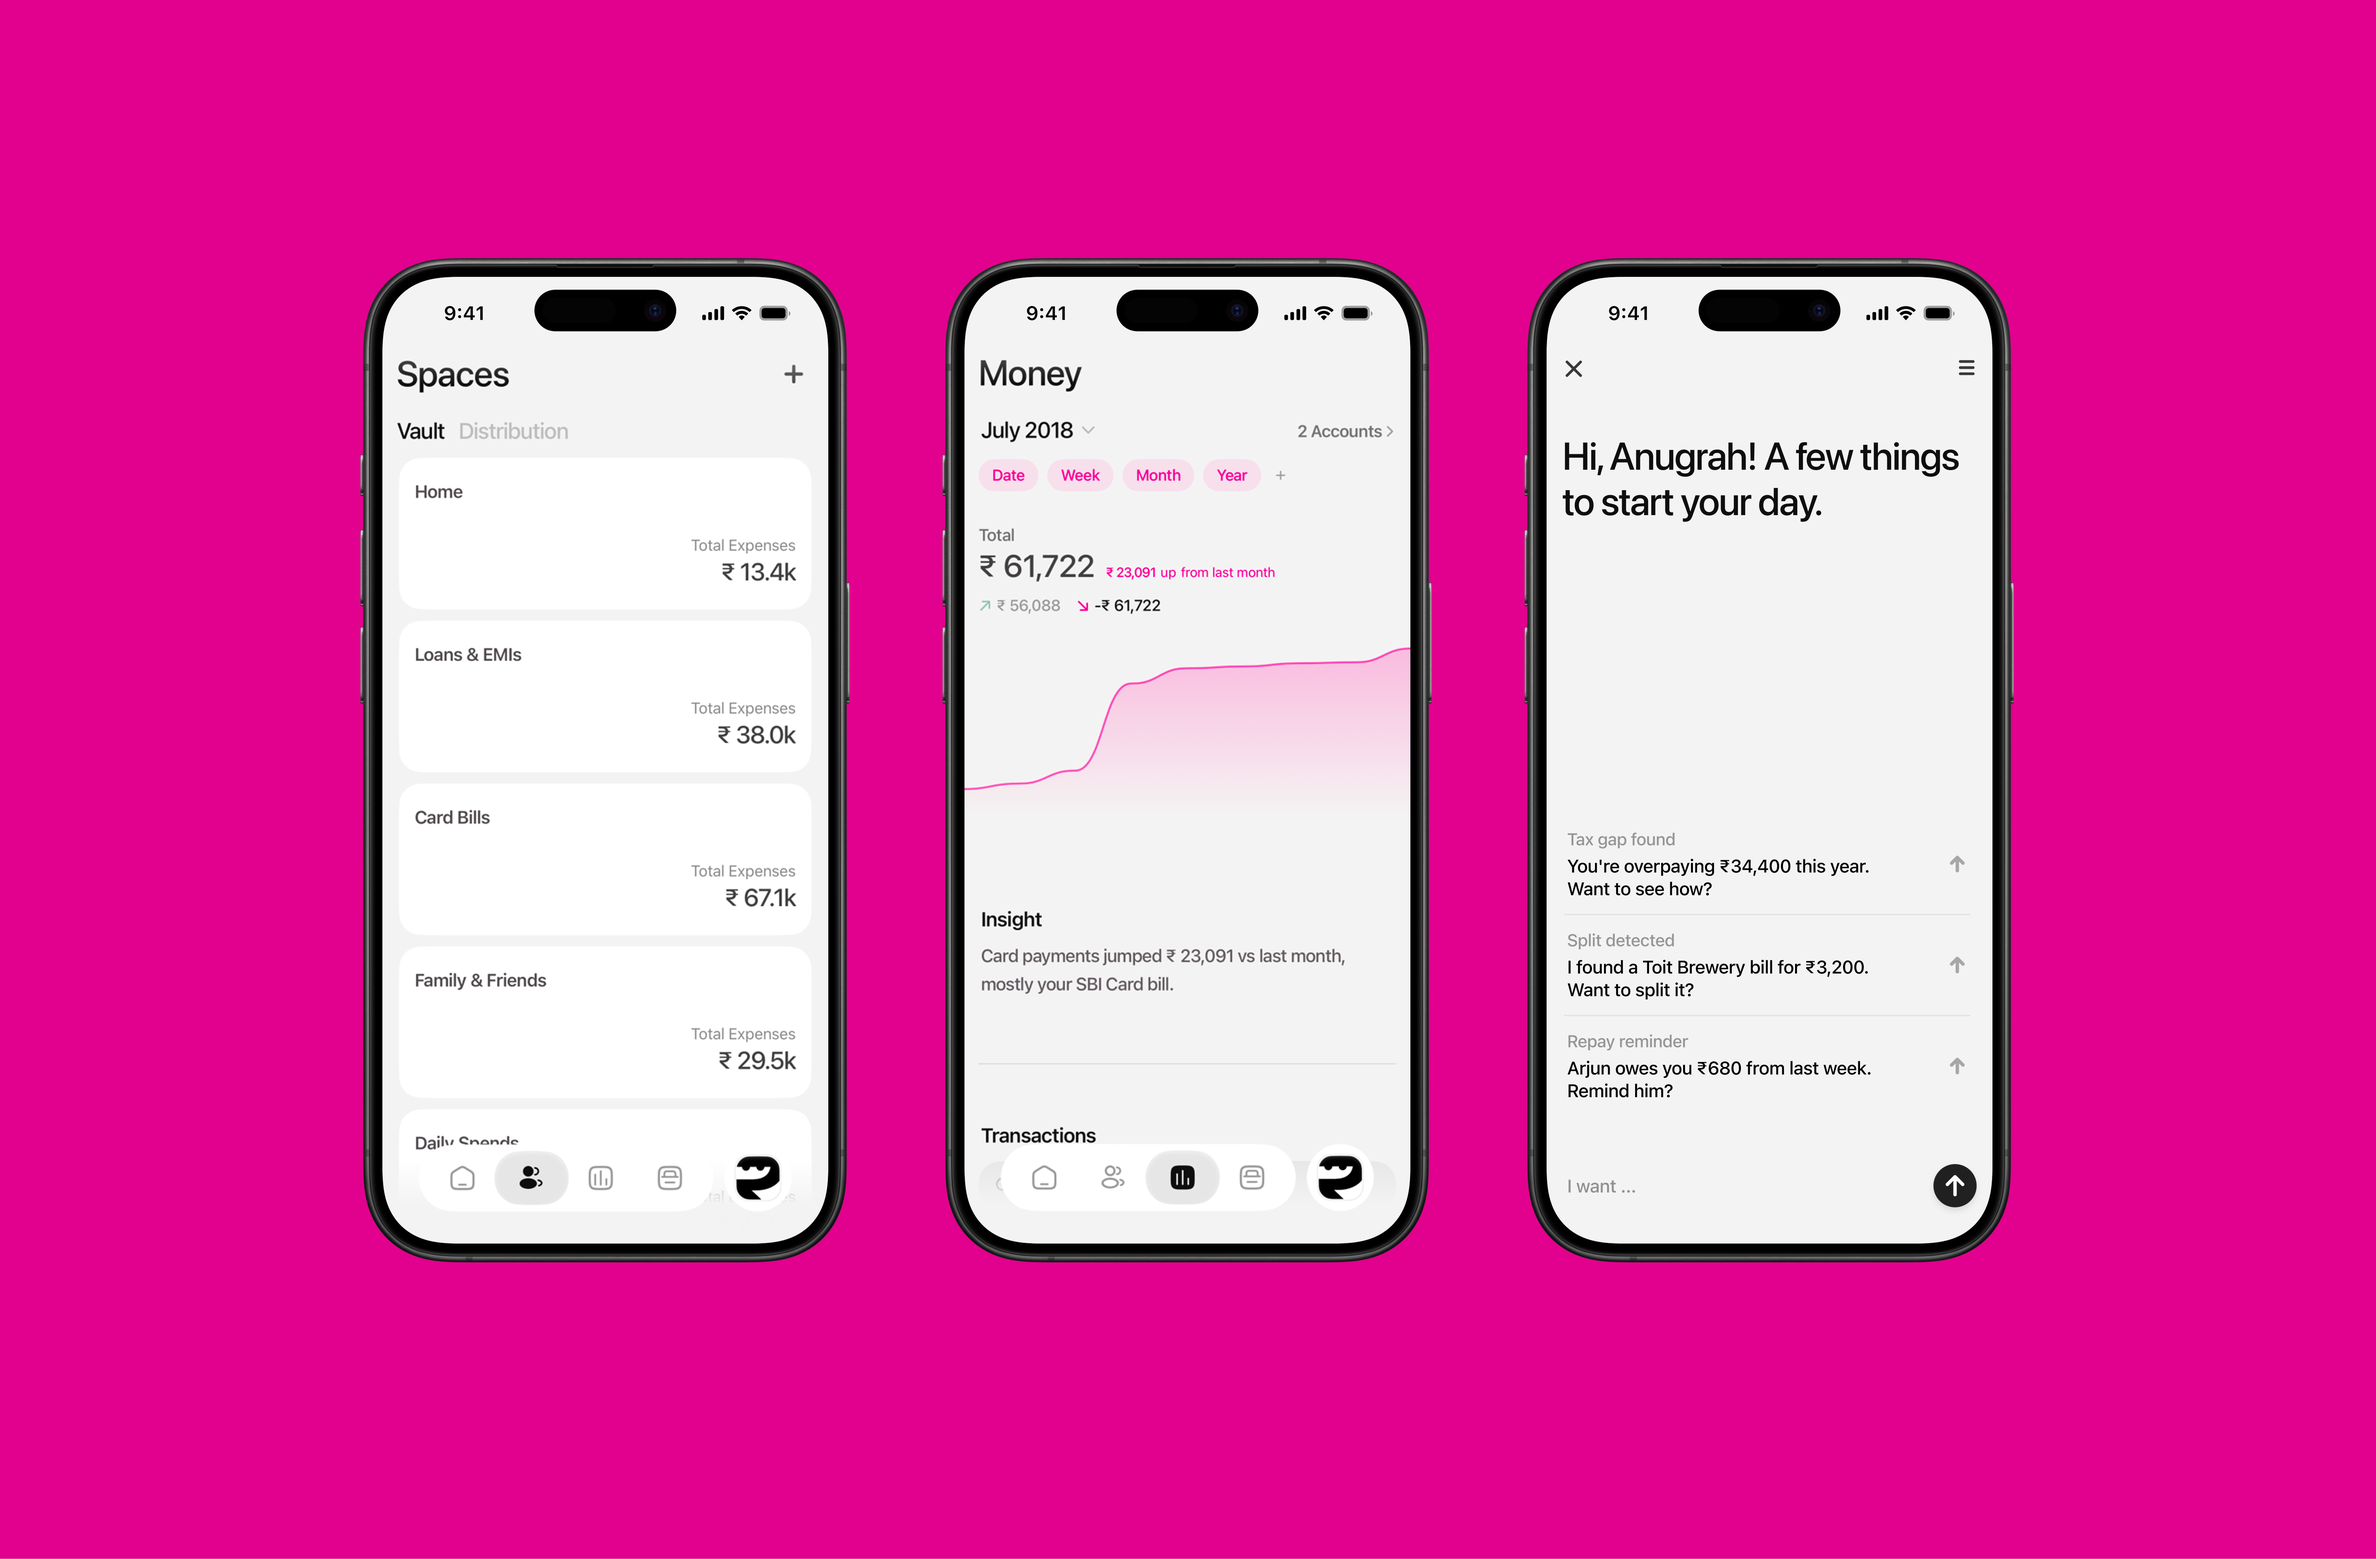
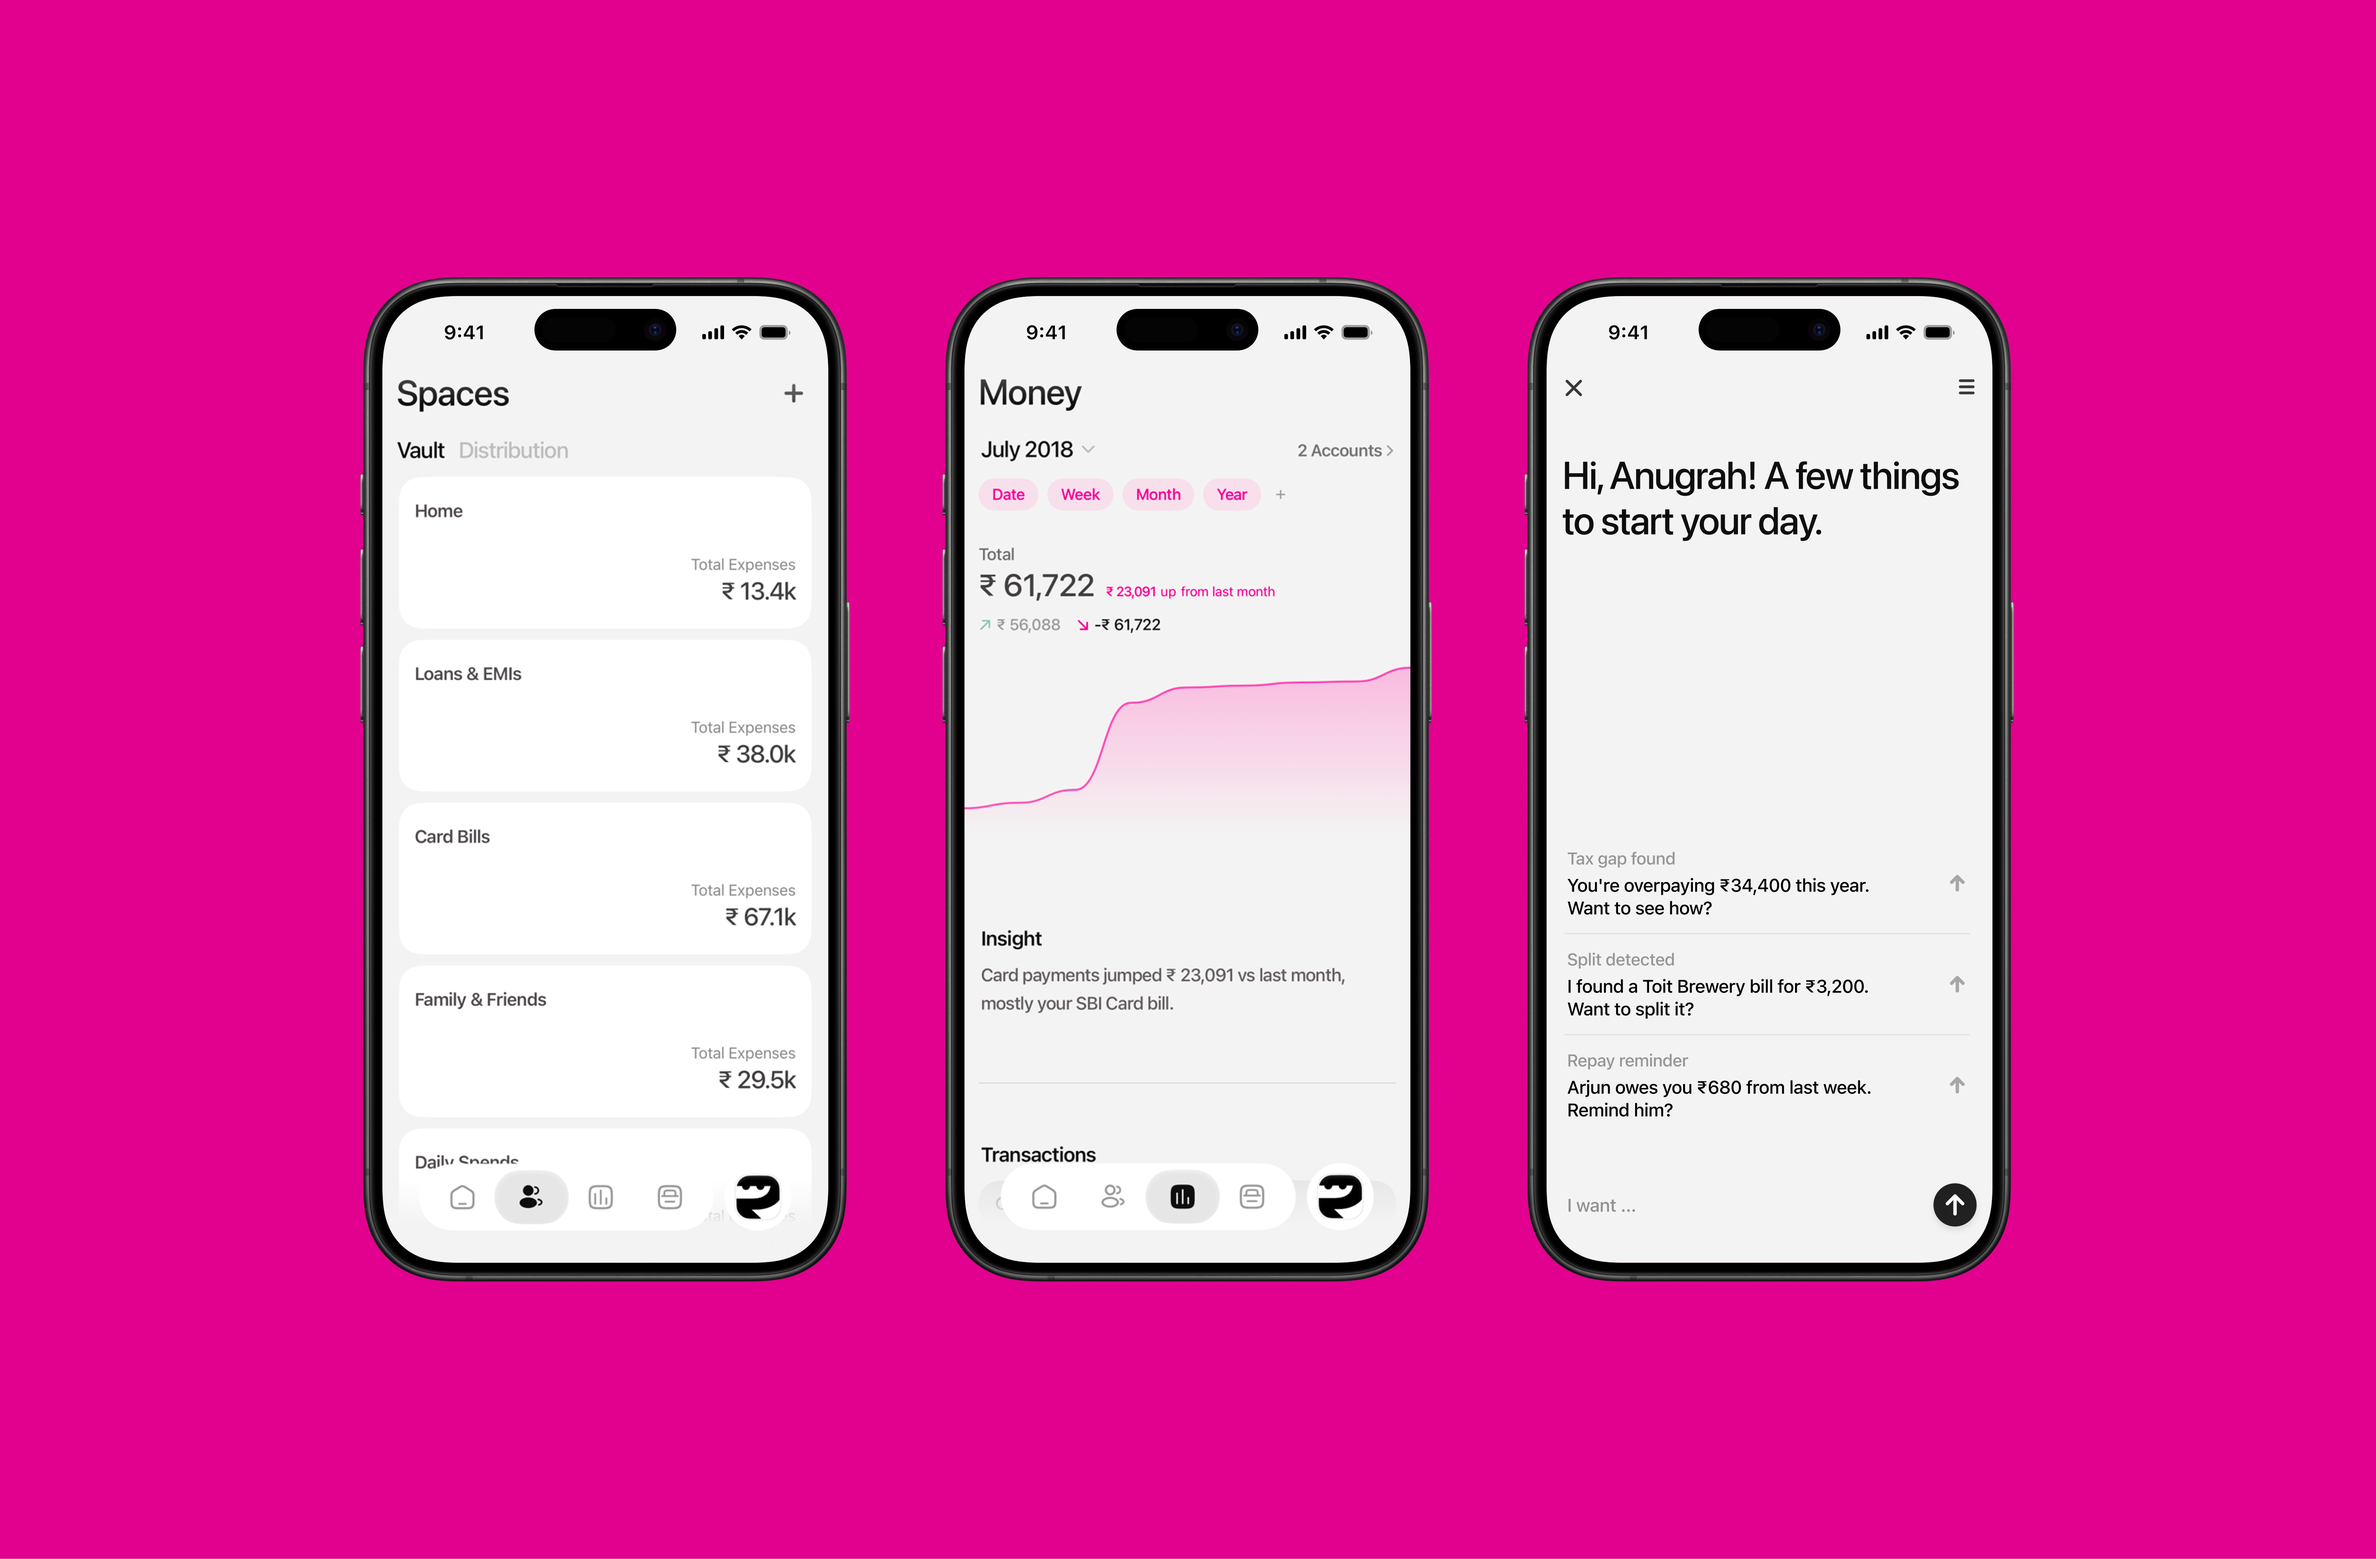
revert Brand 03 offset; push updated Brand 02 image

diff --git a/src/components/projectsData.js b/src/components/projectsData.js
@@ -28,7 +28,7 @@ export const projects = [
             { type: 'images', images: [pennywiseBrand1] },
             { type: 'video', src: pennywiseBrand4Video },
             { type: 'images', images: [pennywiseBrand5] },
-            { type: 'images', images: [pennywiseBrand3], trimY: 12, offsetY: 20 },
+            { type: 'images', images: [pennywiseBrand3], trimY: 12 },
             { type: 'images', images: [pennywiseBrand2], zoom: 1.25 }
         ]
     },
